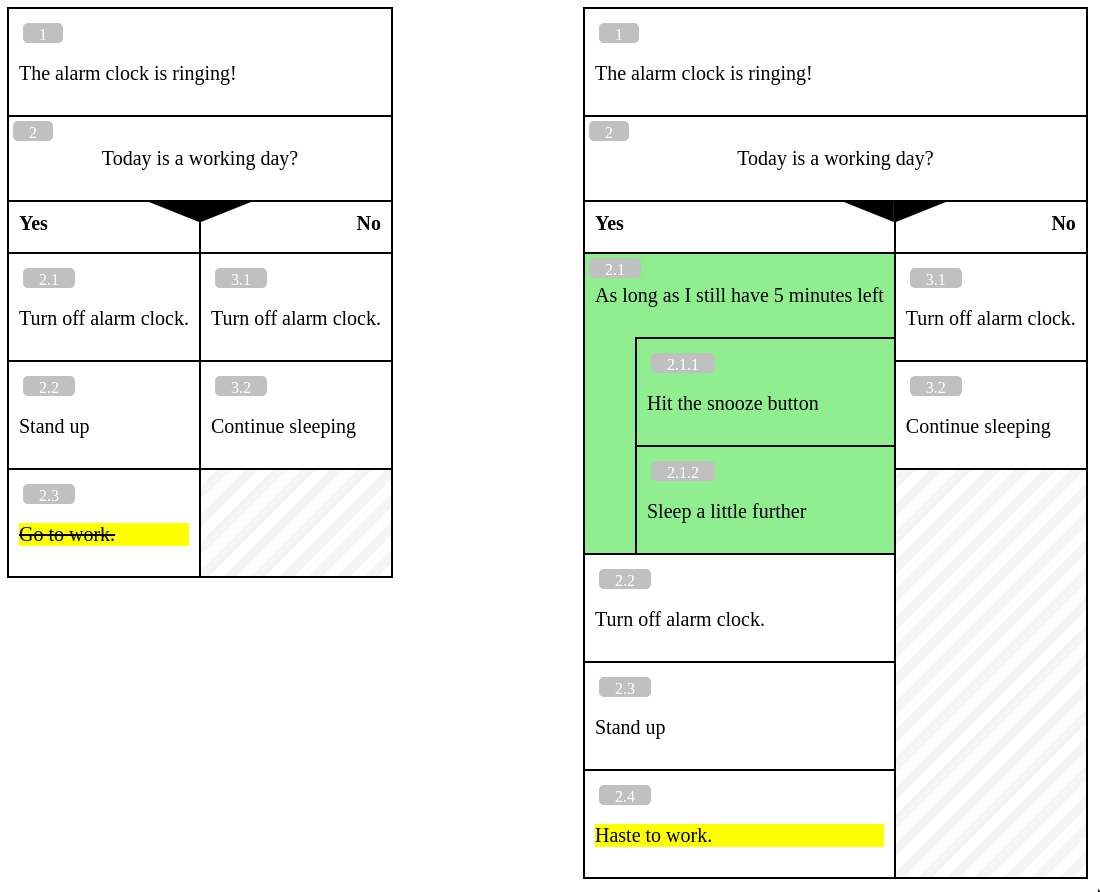
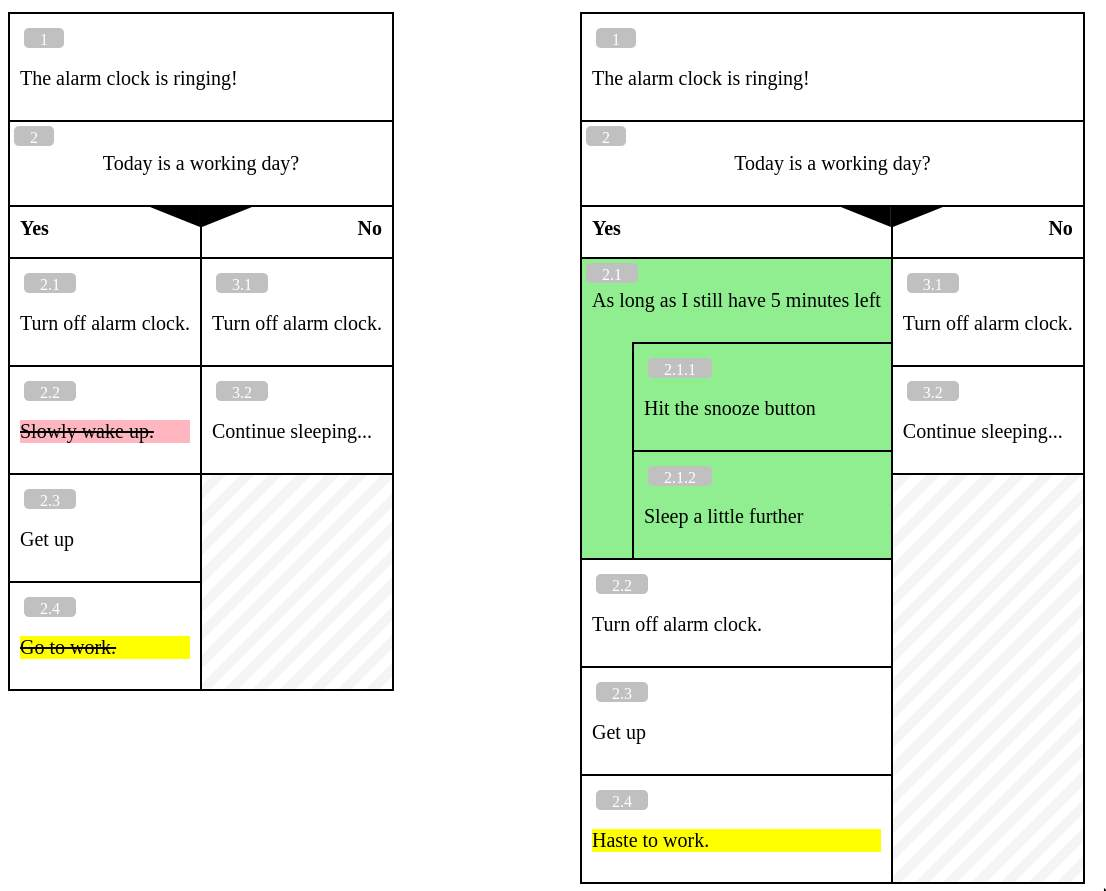
Updated examples, so that the diff contains a deletion.

Changed region(s): [[0.5255, 0.0, 0.9891, 1.0], [0.0, 0.0, 0.3709, 0.7879]]

diff --git a/README.md b/README.md
@@ -13,12 +13,13 @@ The alarm clock is ringing!
 
 IF Today is a working day? {
   Turn off alarm clock.
-  Stand up
+  Slowly wake up.
+  Get up
   Go to work.
 }
 ELSE {
   Turn off alarm clock.
-  Continue sleeping
+  Continue sleeping...
 }
 ```
 
@@ -48,12 +49,12 @@ IF Today is a working day? {
     Sleep a little further
   }
   Turn off alarm clock.
-  Stand up
+  Get up
   Haste to work.
 }
 ELSE {
   Turn off alarm clock.
-  Continue sleeping
+  Continue sleeping... 
 }
 ```
 
